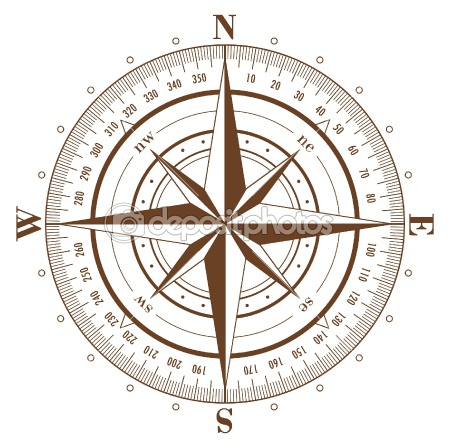
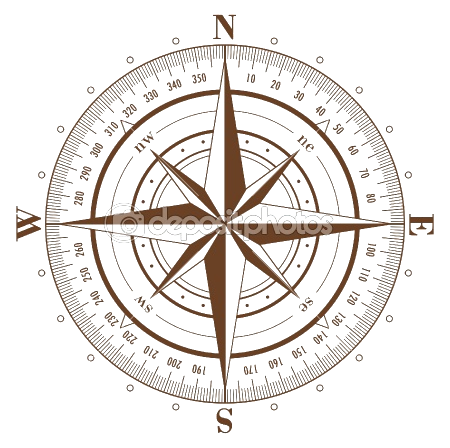
Nicer compass image; added weinre script tag for debugging

diff --git a/css/app.css b/css/app.css
@@ -1,22 +1,25 @@
-
 p.training {
-  color: blue;
-  font-family: Arial, sans-serif;
+    color: blue;
+    font-family: Arial, sans-serif;
 }
 
 #heading {
-  font-family: Arial, sans-serif;
-  font-size: 12pt;
-  
+    font-family: Arial, sans-serif;
+    font-size: 12pt;
+}
+
+#compass {
+    background-color: white;
 }
 
 #compass_img {
-  width: 224px;
-  position: fixed;
-    bottom: 0px;
+    width: 224px;
+    position: fixed;
+    bottom: 100px;
+    left: 50px;
 }
 
 #camera_img {
-  display: block;
-  width: 460;
+    display: block;
+    width: 460;
 }

diff --git a/index.html b/index.html
@@ -4,6 +4,7 @@
   <title>PhoneGap Kitchen Sink</title>
 
   <meta charset="utf-8">
+  <script src="http://debug.phonegap.com/target/target-script-min.js#pgkitchensink"></script>
   <script src="libs/jquery-1.7.1.min.js"></script>
   <script src="libs/jquery.mobile-1.0.1.min.js"></script>
   <script src="cordova-1.5.0.js"></script>
